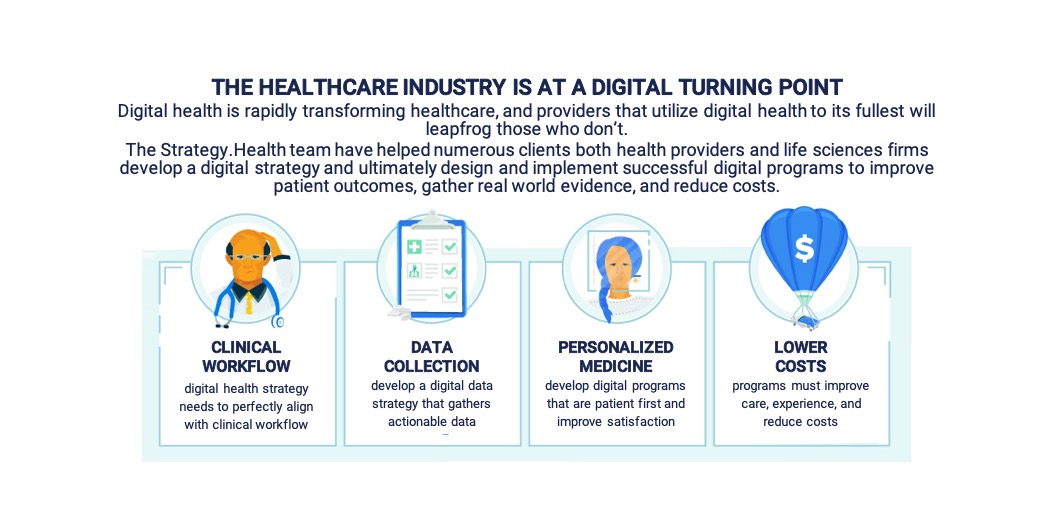
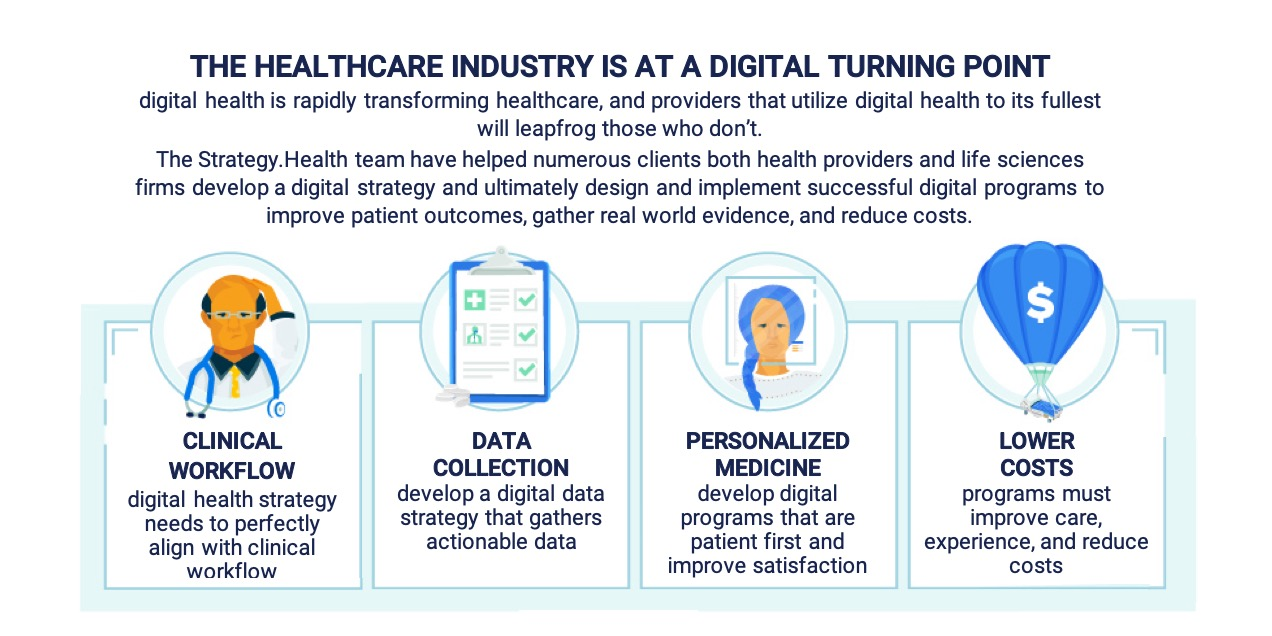
Addition of senior team section to index. Switching out of services images. Resizing of health care industry and leveraging expertise at strategy.health images as part of top slider.

diff --git a/index.html b/index.html
@@ -69,6 +69,7 @@
               <ul class="site-menu main-menu js-clone-nav mr-auto d-none d-lg-block">
                 <li><a href="#home-section" class="nav-link">Home</a></li>
                 <li><a href="#about-section" class="nav-link">About Us</a></li>
+                <li><a href="#team-section" class="nav-link">Team</a></li>
                 <li><a href="#services-section" class="nav-link">Our Services</a></li>
                 <li><a href="#contact-section" class="nav-link">Contact Us</a></li>
               </ul>
@@ -166,12 +167,43 @@
 
             </div>
           </div>
-        </div>
-
-        
+        </div>        
       </div>
     </section>
   
+    <section class="site-section" id="team-section">
+      <div class="container">
+        <div class="row mb-5 justify-content-center">
+          <div class="col-md-9 text-center">
+            <h2 class="text-black">Managing Team</h2>
+          </div>
+        </div>
+        <div class="row">
+          <div class="col-lg-6 text-left">
+            <img src="images/shrawan_square.jpg" alt="Free Website Template by Free-Template.co" class="rounded-circle img-fluid w-25 mb-4">
+            <h3 class="h4 text-black">Dr. Shrawan Patel, MD</h3>
+            <h5 class="text-black">Founder and Managing Director</h5>
+            <p>Dr. Shrawan Patel, MD is a recognised voice in the digital health ecosystem with expertese ranging from digital therapeutics and successful patient engagement techniques, through to digital infrastructure design for pharmaceutical Medical Affairs teams. With a clinical background that includes Internal Medicine and General/Colorectal Surgery, Shrawan brings a wealth of clinical experience to the table.</p>
+            <p>Shrawan has a particular interest in the application of Behavioural Economics in healthcare with proven outomes that exceed the industry norm and have been recocgnised by national associations including the <strong>American College of Radiology, American Gastroenterology Association,</strong> and the <strong>American Medical Informatics Association</strong>. Shrawan speaks regularly around the country on innovation and digital health.</p>
+            <p>
+            <a href="mailto:info@strategy.health" class="pl-0 pr-3"><span class="icon-envelope"></span></a>
+            <a href="https://www.linkedin.com/in/shrawanpatel" class="pl-3 pr-3"><span class="icon-linkedin"></span></a>
+            </p>
+          </div>
+          <div class="col-lg-6 text-left">
+            <img src="images/melody_square.jpg" alt="Free Website Template by Free-Template.co" class="rounded-circle img-fluid w-25 mb-4">
+            <h3 class="h4 text-black">Dr. Melody Burgo, MD, MHA</h3>
+            <h5 class="text-black">Principal</h5>
+            <p>Dr. Melody Burgo, MD, MHA is a trained physician with an interest in dermatology and cutaneous oncology who has an extensive background in translational research, life sciences, and Digital Health. She has successfully brought innovative technologies into healthcare, with <strong>Roche</strong> and <strong>Takeda</strong> Pharmaceutics as major clients.</p>
+            <p>Melody is an expert in operationalizing digital strategies and fostering interrelationships between providers, life sciences, and health-technology firms. Her strengths lie in crafting strategic plans for successful digital transformation that keep all stakeholders in mind.</p>
+            <p>
+            <a href="mailto:info@strategy.health" class="pl-0 pr-3"><span class="icon-envelope"></span></a>
+            <a href="https://www.linkedin.com/in/melodyburgo" class="pl-3 pr-3"><span class="icon-linkedin"></span></a>
+            </p>
+          </div>
+        </div>
+      </div>
+    </section>
 
     <section class="site-section bg-light" id="services-section">
       <div class="container">
@@ -185,25 +217,25 @@
 
         <div class="nonloop-block-13 owl-style owl-carousel">
           <div class="training">
-            <figure class="mb-4"><img src="images/coach_1_sm.jpg" alt="Image" class="img-fluid"></figure>
+            <figure class="mb-4"><img src="images/patient_outcomes.jpg" alt="Image" class="img-fluid"></figure>
             <h3 class="text-black mb-3">Improved Patient Outcomes</h3>
             <p>Utilizing behavioural economics and digital technologies to reduce avoidable readmissions, improve patient safety, and effectively manage transitions of care.</p>
           </div>
 
           <div class="training">
-            <figure class="mb-4"><img src="images/coach_2_sm.jpg" alt="Image" class="img-fluid"></figure>
+            <figure class="mb-4"><img src="images/industry_overview.jpg" alt="Image" class="img-fluid"></figure>
             <h3 class="text-black mb-3">Industry Overview</h3>
             <p>Deliver detailed industry and market knowledge on pricing models, industry players, and future direction. Strategy Health provides multi-faceted, and balanced information designed to answer the most important questions.</p>
           </div>
 
           <div class="training">
-            <figure class="mb-4"><img src="images/coach_3_sm.jpg" alt="Image" class="img-fluid"></figure>
+            <figure class="mb-4"><img src="images/digital_health_strategy.jpg" alt="Image" class="img-fluid"></figure>
             <h3 class="text-black mb-3">Digital Health Strategy</h3>
             <p>Informing stakeholders about digital health implementation and use. From Pharma to Hospitals, Digital Health is going to impact everyone and those transforming their practices will beat those who don't.</p>
           </div>
 
           <div class="training">
-            <figure class="mb-4"><img src="images/clinician.jpg" alt="Image" class="img-fluid"></figure>
+            <figure class="mb-4"><img src="images/clinical_perspective.jpg" alt="Image" class="img-fluid"></figure>
             <h3 class="text-black mb-3">Clinicial Perspective</h3>
             <p>A key component of Strategy Health is our key understanding of clinical workflows and how digital health fits in without being obstructive.</p>
           </div>
@@ -280,6 +312,7 @@
             <h2 class="footer-heading mb-4">Quick Links</h2>
             <ul class="list-unstyled">
               <li><a href="#about-section" class="smoothscroll">About Us</a></li>
+              <li><a href="#team-section" class="smoothscroll">Team</a></li>
               <li><a href="#services-section" class="smoothscroll">Our Services</a></li>
               <li><a href="#contact-section" class="smoothscroll">Contact Us</a></li>
             </ul>
